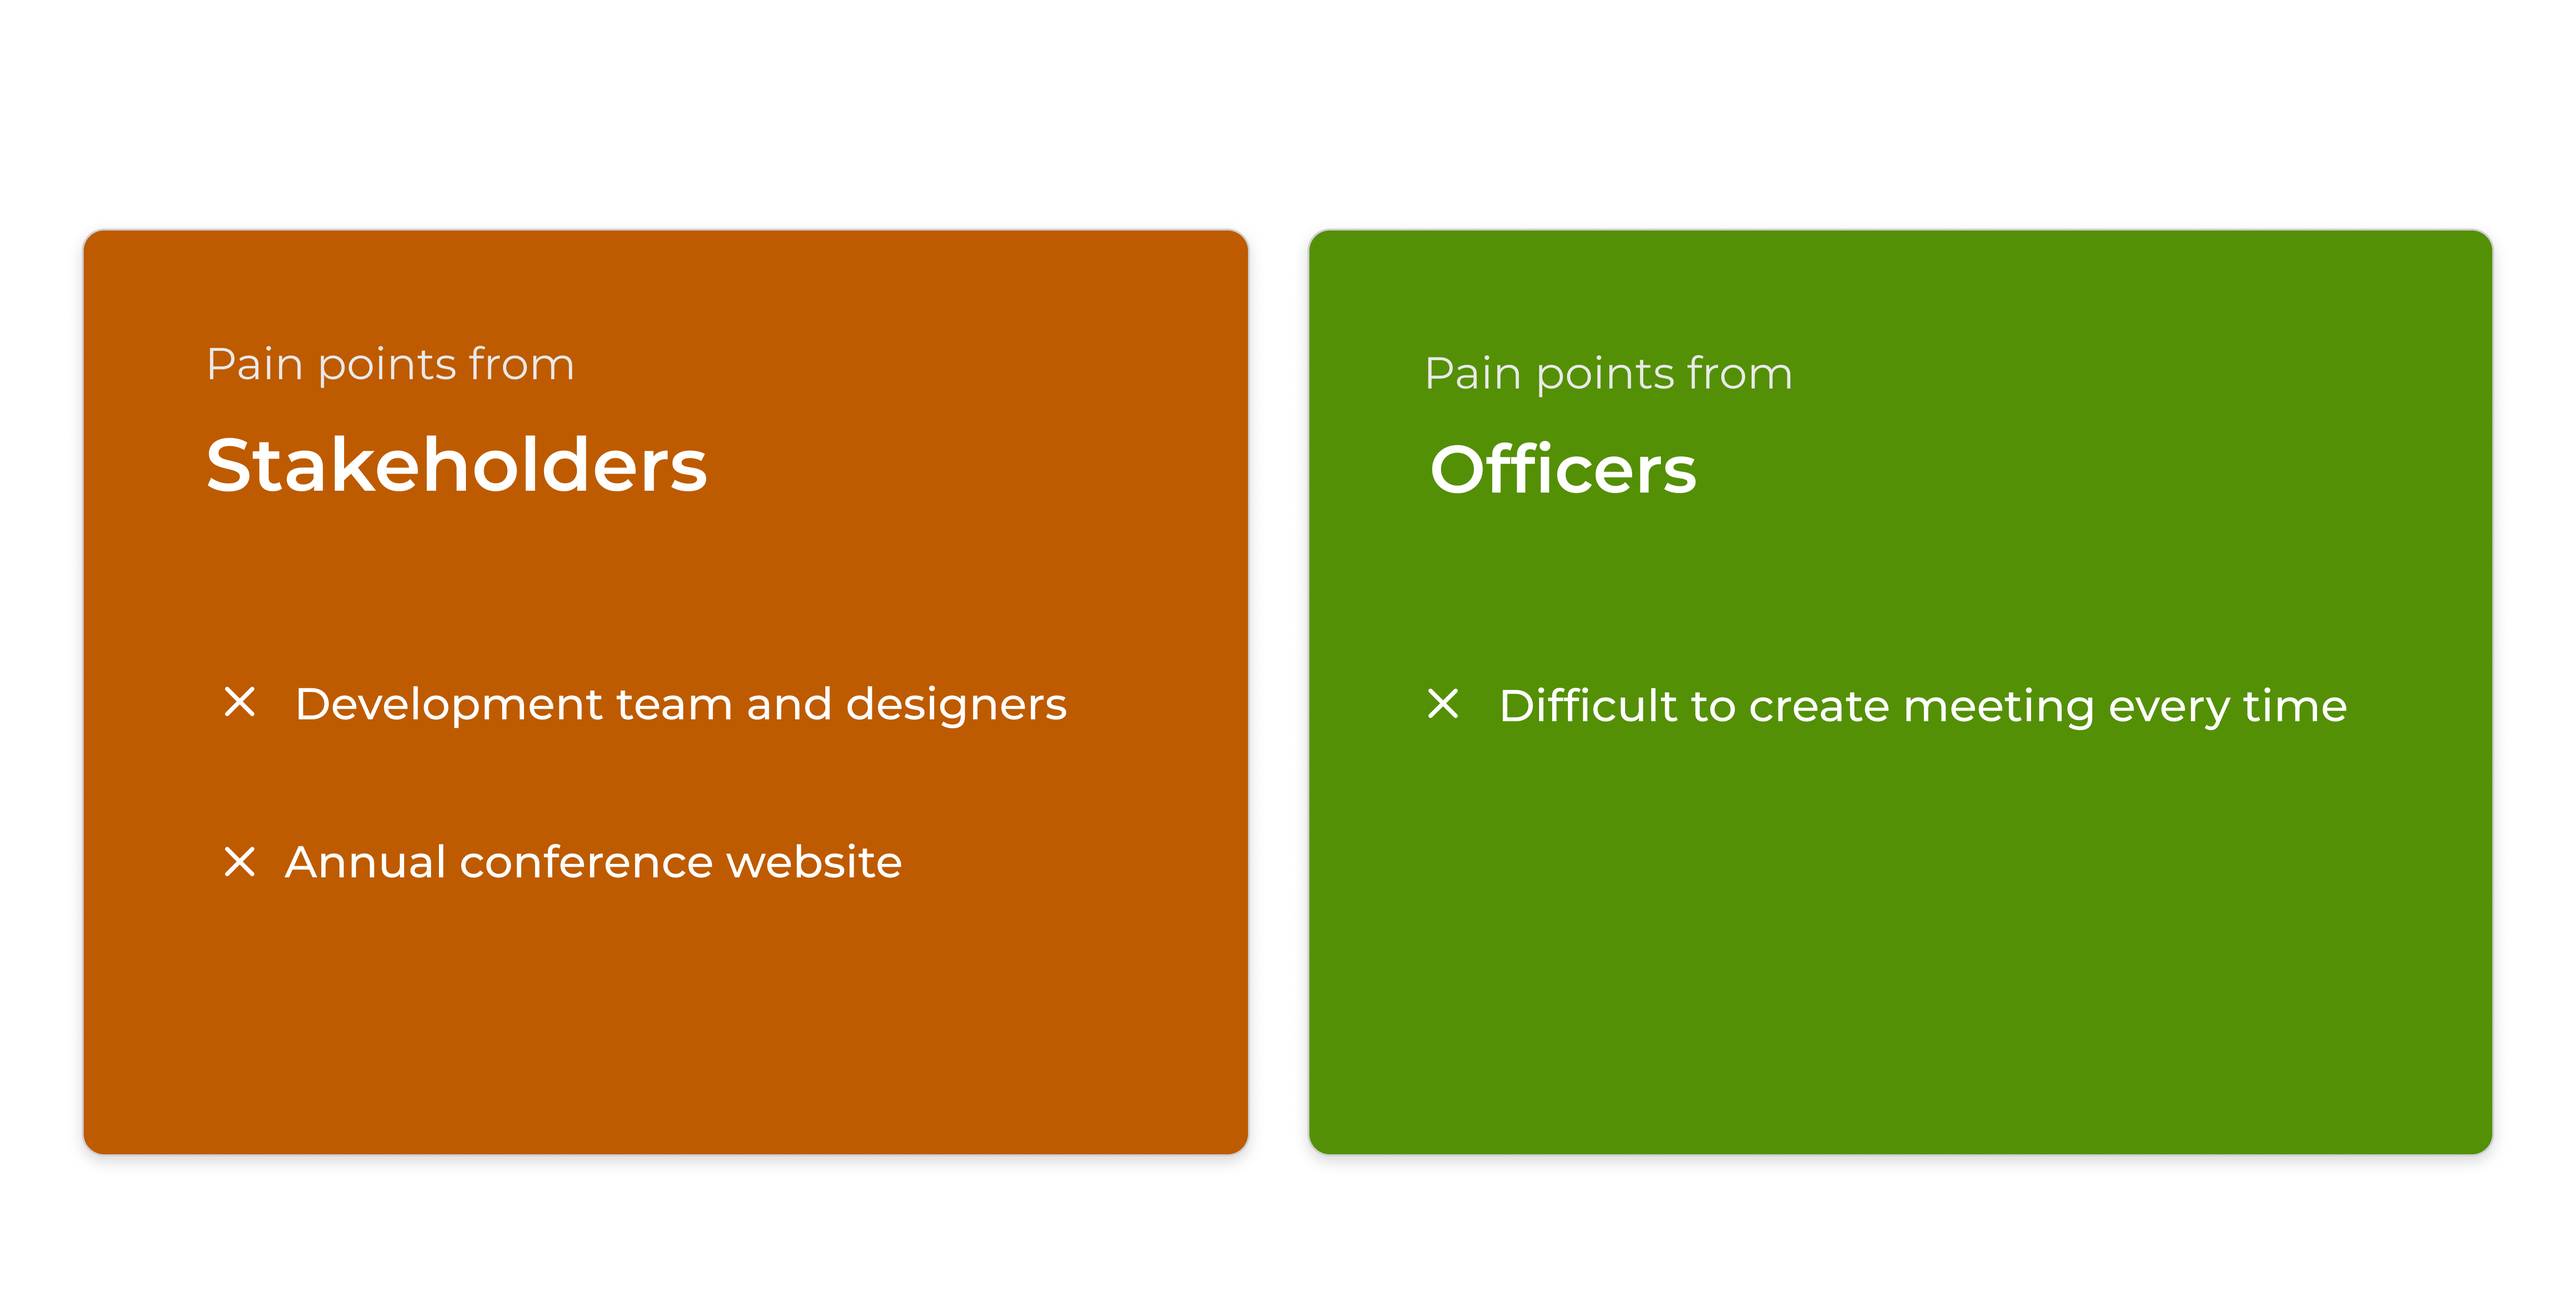
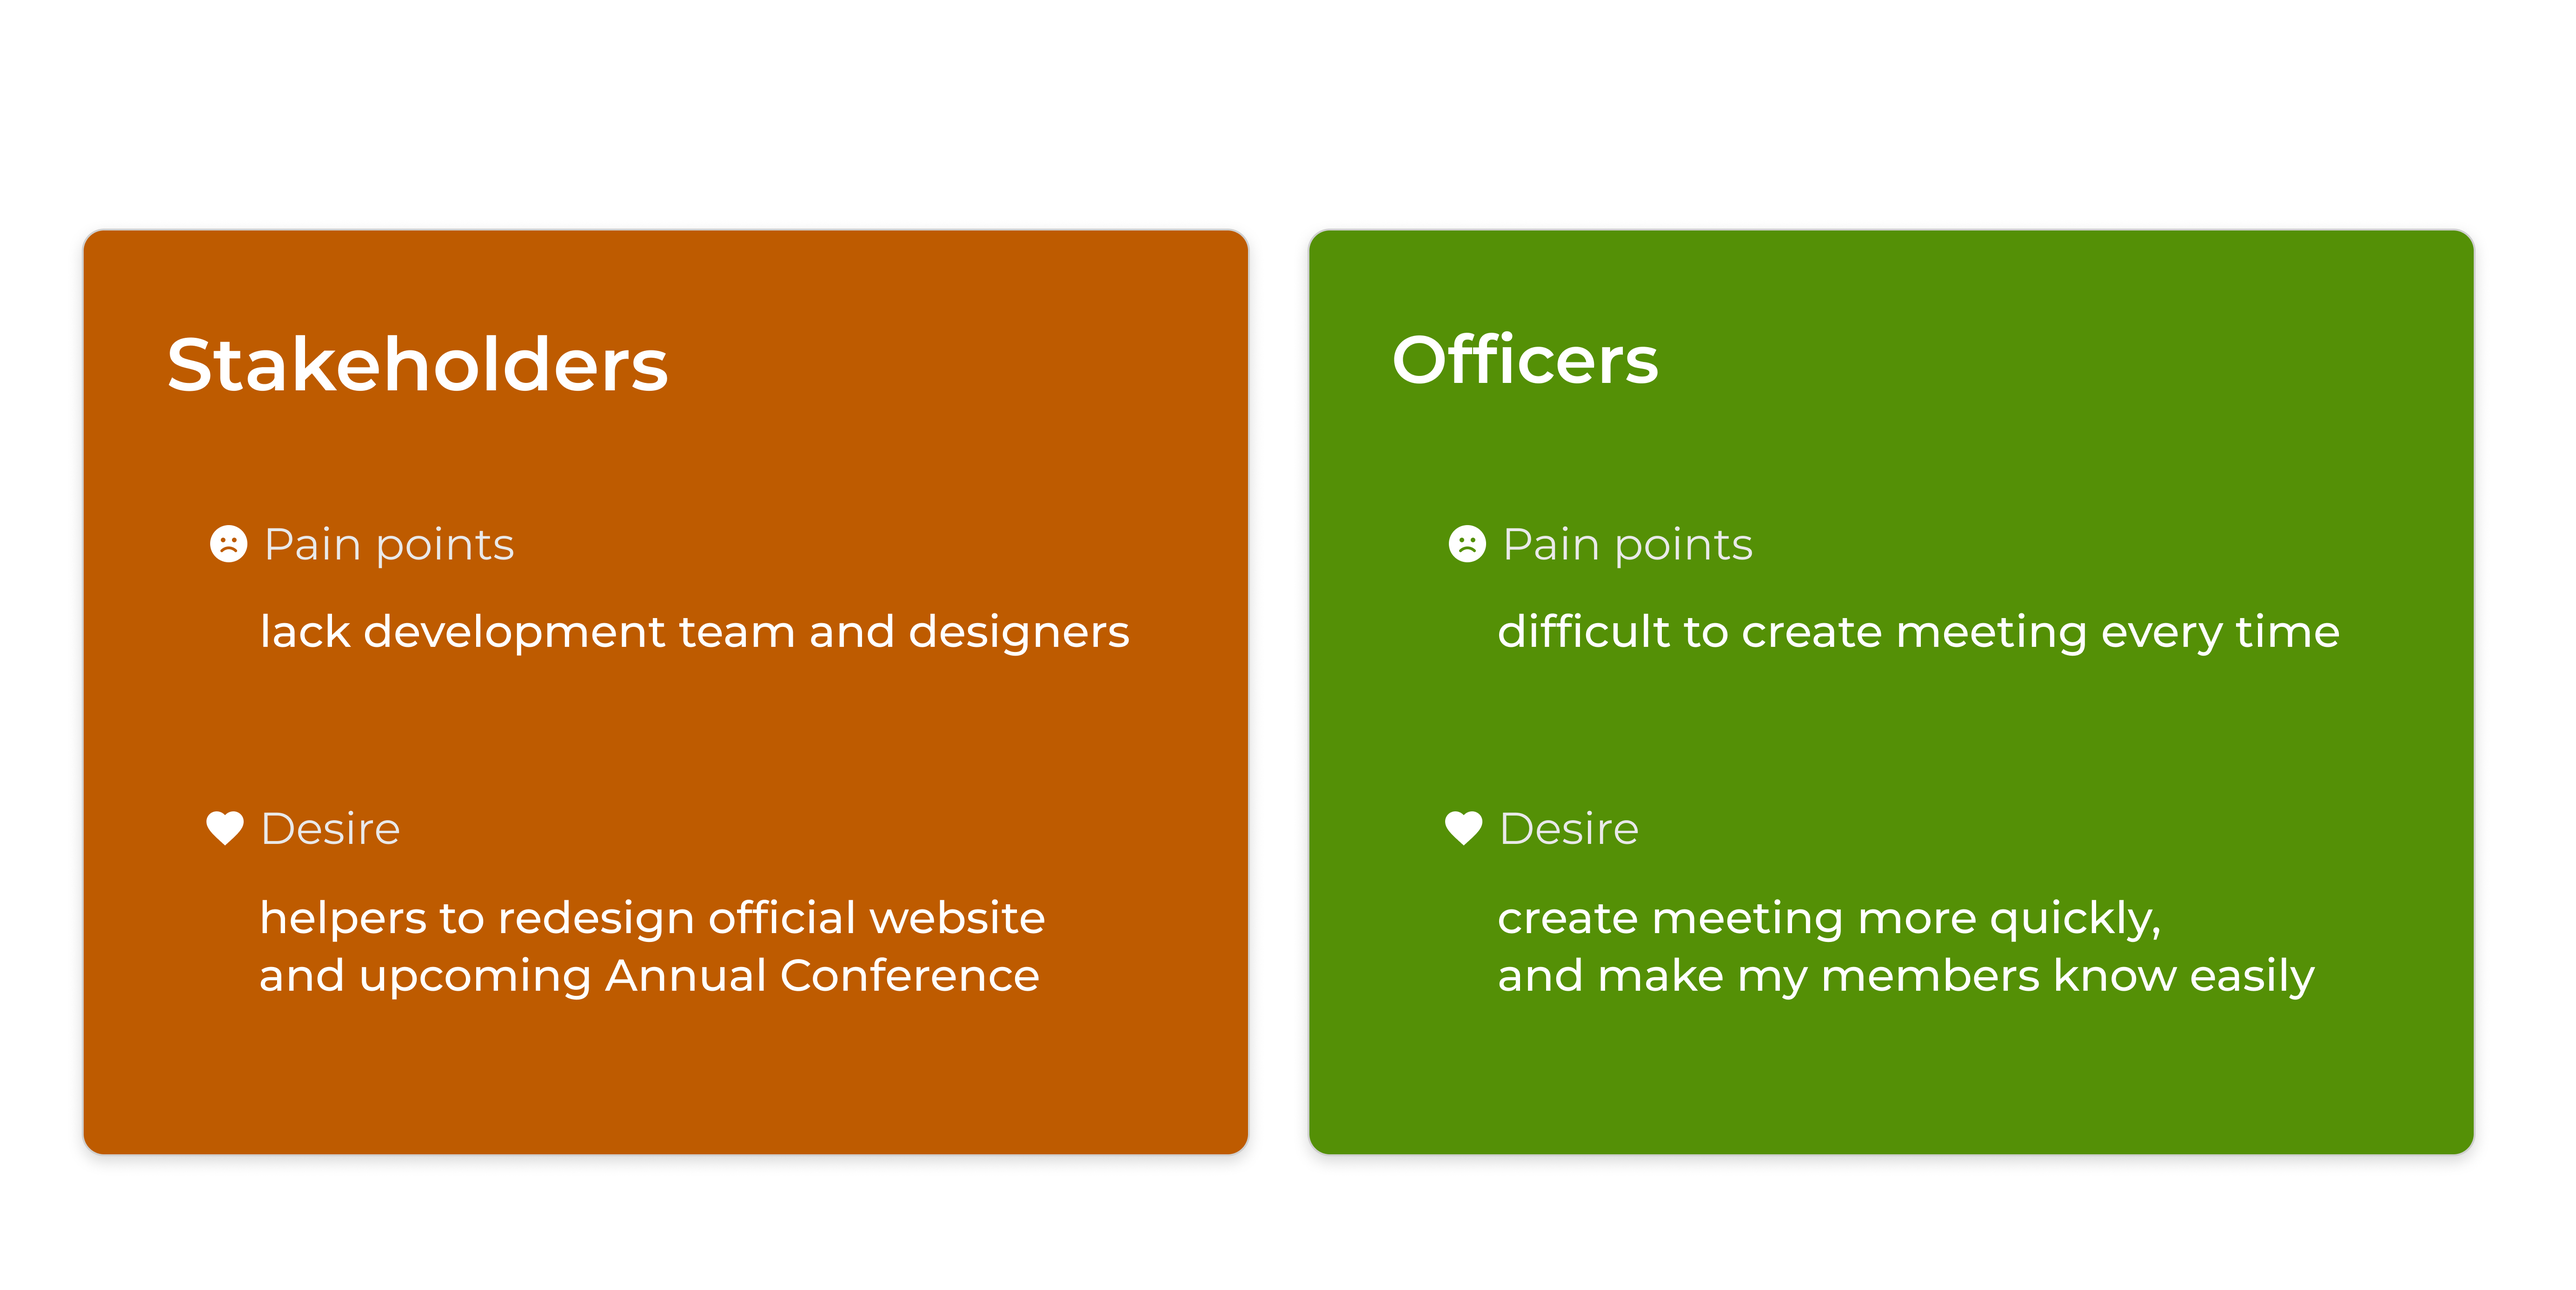
1/24

diff --git a/casestudy.TM.html b/casestudy.TM.html
@@ -149,52 +149,56 @@
               <br/>
               <br/>
               <div class="article-detail-area__content-two">
-                <div class="title">Opportunity space (pain points, desire)</div>
+                <h4 class="title">Opportunity space (pain points, desire)</h4>
+                <p class="text">With the pain point and desire from the stakeholders and officers, I founded the former needed helpers to redesign the official and conference website. On the other hand, and later were focus on the main problem - meeting planning</p>
                 <img src="./image/innerpage/ops.png" alt="problem" class="w-100" style="margin-bottom:80px">
               </div>
               <br/>
-                <div class="text">In addition, some underlying problems came from memberships.</div>
+                <div class="text"> I also divided memberships into two section - Regular and Upcoming Members</div>
                 <img src="./image/innerpage/ops-2.png" alt="problem" class="w-100" style="margin-bottom:80px">
 
-                <div class="article-detail-area__content-two">
-                  <div class="title">Solution space</div>
-                  <div class="text">       
-                    Toastmasters is an international NGO that teaches and trains public speaking and leadership skills for people.
-                    As the branch club in Taiwan, it not only trains those members but also guides the members to find learning resources.
+                <div class="article-detail-area__content-three">
+                  <h4 class="title">Solution space</h4>
+                  <img src="./image/innerpage/for-ow.png" alt="problem" class="w-100" style="margin-bottom:80px">
+
+
+                  <div class="small-content">
+                    <h4 class="title">Agenda generator</h4>
+                    <p class="text">We came up with new idea, which is “Agenda generator”. Agenda generator is focus on helping officer create meeting agenda more intuitive and quickly. Compared with Excel format, Agenda generator visualize the complex information and make users feels like play with blocks.</p>
+                    <img src="./image/innerpage/agenda.png" alt="problem" class="w-100" style="margin-bottom:80px">
+                  </div>
+
+                  <div class="small-content">
+                    <h4 class="title">Learning resources</h4>
+                    <p class="text">To help members find resources from website, we reorganized all of information from the original website, and made resources categorized.</p>
+                    <img src="./image/innerpage/member.png" alt="member" class="w-100" style="margin-bottom:80px">
+                  </div>
+
+
+                  <div class="small-content">
+                    <h4 class="title">Landing page</h4>
+                    <p class="text">We put emphasized on landing page in order to make information more easily to read. Also, showing more value and guideline to users, to help them find the right direction.</p>
+                    <img src="./image/innerpage/upcoming.png" alt="Upcoming" class="w-100" style="margin-bottom:80px">
+                  </div>
+
+                  <img src="./image/innerpage/for-ac.png" alt="problem" class="w-100" style="margin-bottom:80px">
+
+                  <div class="small-content">
+                    <h4 class="title">Visual design</h4>
+                    <p class="text">I was helping redesign key visual and logo for Annual conference. During the time when I design, I spent a lot of time communicating with stakeholders, and train myself for better design proposal.</p>
+                    <img src="./image/innerpage/logo.png" alt="member" class="w-100" style="margin-bottom:80px">
+                  </div>
                 </div>
-
-            <div class="article-detail-area__content-two">
-              <div class="text">Therefore, we started a project with the Taiwan internal team. In the project, my role was a UX/UI designer. Besides, I was also a project owner assistant to improve communication between designers and the project owner. </div>
-              <img src="./image/innerpage/tm-team.jpeg" alt="chatting" class="w-100"  style="margin-bottom:80px">
-            
-            <div class="article-detail-area__content-two">
-              <div>Considering our stakeholders, our expected goals are as follows:
-              </div>    
-
-              <img src="./image/innerpage/tm-goal.png" alt="team" class="w-100"  style="margin-bottom:80px">
-              <br/>
-              <div>Due to the time limit, we planed to have a standup meeting for updating every week. Also, to convince the stakeholders of our design feasibility, our team pitched project progress to the stakeholders every week. 
-              </div> 
-              <br/>
-              <img src="./image/innerpage/tm-planning.png" alt="team" class="w-100"  style="margin-bottom:80px">
-              <div>Considering the development time from the front end, we decided to demonstrate our Figma prototype first.This could not only validate our concepts first but also save more time for the following development.
-              </div>
-            </div>
-
-            <div class="article-detail-area__content-three">
-              <div>From the new version of the website, there were some updates:</div>
-              <br/>
-            </div>
-            
-            <div class="article-detail-area__content-three">
-              <h2 class="title" style="margin-top:100px">Takeaway</h2>
-              <p class="text">During these two months, I’ve learned how to deliver my design to the developers. Also, it was my first time to be a part of the project owner, so I practiced creating backlogs for designers and evaluating the man-day for each task. I thought it was challenging to control every schedule. But when I saw our team achieve our goal, It couldn’t be more exciting.</p>
-            </div>  
-
+                
             <div class="article-detail-area__content-three">
               <h2 class="title" style="margin-top:100px">What I learned</h2>
+              <p class="text">Although the official website ended up being a failure to develop, I still learned four experience from this collaboration project.</p>
               <img src="./image/innerpage/wil.png" alt="what-i-learned" class="w-100" style="margin-bottom:80px">
             </div>
+
+            <p class="text" style="text-align:center;margin-bottom: 40px;">If you enjoy this project, I would love to share more with you! Thanks for stopping by. 😊</p>
+            
+
 
     <!-- Project Section End -->
     <!-- Footer Section Start -->
